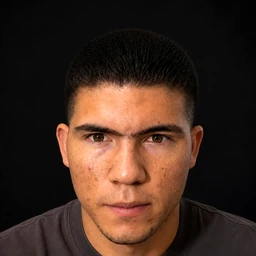
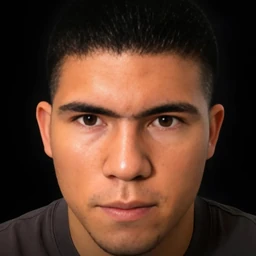
Nombrar problemas en el hero, apretar el ritmo y cambiar la foto
Los nodos pasan a nombrar lo que el visitante reconoce como problema
propio (tareas repetitivas, comentarios sin responder, web lenta, mal SEO
y GEO) en vez de herramientas, que encerraban el discurso en un tipo de
cliente. Y son cuatro, no tres.

Eso obligo a resolver algo: el texto de un SVG escala con su viewBox, asi
que en movil las etiquetas caian a unos 8px. Hay dos disposiciones, una
apaisada y otra apilada, generadas de la misma lista para que no se
desincronicen, y se alternan por ancho.

Ritmo vertical: cada seccion traia 72px de relleno arriba y abajo, o sea
144px de aire entre una y la siguiente, ocho veces. Con 48px la pagina
pasa de 7843 a 7411px sin que las secciones se toquen.

Y se cambia el retrato por la version de mas calidad, de la que ademas
sale el avatar redondo recortado sobre la cara.

Comprobado a 1280 y 430px: las cuatro etiquetas se leen, no hay solape
con los contadores ni desborde, y la consola sale limpia.

diff --git a/src/pagina-isak.tsx b/src/pagina-isak.tsx
@@ -87,6 +87,14 @@ const CERTIFICACIONES = [
   },
 ];
 
+/** Lo que el visitante reconoce como problema propio, no herramientas concretas. */
+const PROBLEMAS = [
+  "tareas repetitivas",
+  "comentarios sin responder",
+  "web lenta",
+  "mal SEO y GEO",
+];
+
 const ZOOM_MIN = 1;
 const ZOOM_MAX = 4;
 const acotar = (v) => Math.min(ZOOM_MAX, Math.max(ZOOM_MIN, v));
@@ -456,31 +464,58 @@ const PortadaIsak = () => {
                                     <div
                                         className="flujo"
                                         role="img"
-                                        aria-label="Varios sistemas conectados a un agente que devuelve la tarea resuelta"
+                                        aria-label="Tareas repetitivas, comentarios sin responder, web lenta y mal SEO entran a un agente que devuelve la tarea resuelta"
                                     >
-                                        <svg viewBox="0 0 708 293" fill="none" xmlns="http://www.w3.org/2000/svg">
-                                            {[62, 146, 230].map((y, i) => (
-                                                <g key={y} className="flujo__origen" style={{ animationDelay: `${i * 0.45}s` }}>
-                                                    <rect className="flujo__chip" x="14" y={y - 20} width="112" height="40" rx="20" />
-                                                    <circle className="flujo__punto" cx="46" cy={y} r="5" />
-                                                    <rect className="flujo__barra" x="62" y={y - 5} width="48" height="10" rx="5" />
-                                                    <path className="flujo__linea" d={`M126 ${y} C 200 ${y}, 248 146, 296 146`} />
-                                                </g>
-                                            ))}
-                                            <text className="flujo__pie" x="70" y="288" textAnchor="middle">tus sistemas</text>
-
-                                            <circle className="flujo__onda" cx="356" cy="146" r="56" />
-                                            <circle className="flujo__halo" cx="356" cy="146" r="56" />
-                                            <g className="flujo__marca" transform="translate(328,118) scale(1.4)">
+                                        {/* Apaisada. El texto del SVG escala con el viewBox, asi que en
+                                            movil quedaria a unos 8px: por eso hay una version aparte. */}
+                                        <svg className="flujo__ancho d-none d-md-block" viewBox="0 0 708 293" fill="none" xmlns="http://www.w3.org/2000/svg">
+                                            {PROBLEMAS.map((texto, i) => {
+                                                const y = 40 + i * 68;
+                                                return (
+                                                    <g key={texto} className="flujo__origen" style={{ animationDelay: `${i * 0.35}s` }}>
+                                                        <rect className="flujo__chip" x="6" y={y - 20} width="250" height="40" rx="20" />
+                                                        <circle className="flujo__punto" cx="32" cy={y} r="5" />
+                                                        <text className="flujo__etiqueta" x="50" y={y + 5}>{texto}</text>
+                                                        <path className="flujo__linea" d={`M256 ${y} C 320 ${y}, 330 142, 368 142`} />
+                                                    </g>
+                                                );
+                                            })}
+                                            <circle className="flujo__onda" cx="420" cy="142" r="52" />
+                                            <circle className="flujo__halo" cx="420" cy="142" r="52" />
+                                            <g className="flujo__marca" transform="translate(394,116) scale(1.3)">
                                                 <path className="flujo__marcaCuerpo" d="M27 2L40 32L33.5 32L27 17L10.6 40L0 40Z" />
                                                 <path className="flujo__marcaRanura" d="M13.1 21.56L20.18 26.59L18.68 28.71L11.6 23.68Z" />
                                                 <path className="flujo__marcaRanura" d="M7.31 29.71L14.39 34.74L12.89 36.86L5.81 31.83Z" />
                                             </g>
-                                            <text className="flujo__pie" x="356" y="288" textAnchor="middle">agente</text>
+                                            <text className="flujo__pie" x="420" y="222" textAnchor="middle">agente</text>
+                                            <path className="flujo__linea" d="M472 142 C 500 142, 510 142, 534 142" />
+                                            <rect className="flujo__salida" x="534" y="120" width="164" height="44" rx="22" />
+                                            <text className="flujo__salidaTexto" x="616" y="147" textAnchor="middle">resuelto</text>
+                                        </svg>
 
-                                            <path className="flujo__linea" d="M416 146 C 470 146, 500 146, 548 146" />
-                                            <rect className="flujo__salida" x="548" y="124" width="154" height="44" rx="22" />
-                                            <text className="flujo__salidaTexto" x="625" y="151" textAnchor="middle">tarea resuelta</text>
+                                        {/* Apilada, para pantallas estrechas. */}
+                                        <svg className="flujo__alto d-md-none" viewBox="0 0 360 430" fill="none" xmlns="http://www.w3.org/2000/svg">
+                                            {PROBLEMAS.map((texto, i) => {
+                                                const y = 26 + i * 52;
+                                                return (
+                                                    <g key={texto} className="flujo__origen" style={{ animationDelay: `${i * 0.35}s` }}>
+                                                        <rect className="flujo__chip" x="10" y={y - 18} width="340" height="36" rx="18" />
+                                                        <circle className="flujo__punto" cx="34" cy={y} r="5" />
+                                                        <text className="flujo__etiqueta" x="52" y={y + 5}>{texto}</text>
+                                                    </g>
+                                                );
+                                            })}
+                                            <path className="flujo__linea" d="M180 216 L180 270" />
+                                            <circle className="flujo__onda" cx="180" cy="318" r="44" />
+                                            <circle className="flujo__halo" cx="180" cy="318" r="44" />
+                                            <g className="flujo__marca" transform="translate(158,296) scale(1.1)">
+                                                <path className="flujo__marcaCuerpo" d="M27 2L40 32L33.5 32L27 17L10.6 40L0 40Z" />
+                                                <path className="flujo__marcaRanura" d="M13.1 21.56L20.18 26.59L18.68 28.71L11.6 23.68Z" />
+                                                <path className="flujo__marcaRanura" d="M7.31 29.71L14.39 34.74L12.89 36.86L5.81 31.83Z" />
+                                            </g>
+                                            <path className="flujo__linea" d="M180 362 L180 392" />
+                                            <rect className="flujo__salida" x="112" y="392" width="136" height="36" rx="18" />
+                                            <text className="flujo__salidaTexto" x="180" y="415" textAnchor="middle">resuelto</text>
                                         </svg>
                                     </div>
                                 </div>

diff --git a/public/assets/css/styles.css b/public/assets/css/styles.css
@@ -7695,6 +7695,19 @@ button.animate-btn::after,
   fill: var(--black-56);
   font-size: 15px;
 }
+.flujo__etiqueta {
+  fill: var(--black-72);
+  font-size: 15px;
+}
+/* La apilada usa un viewBox mas estrecho, asi que su texto necesita menos
+   tamano en unidades propias para acabar con el mismo tamano en pantalla. */
+.flujo__alto .flujo__etiqueta,
+.flujo__alto .flujo__salidaTexto {
+  font-size: 17px;
+}
+.flujo__alto .flujo__pie {
+  font-size: 16px;
+}
 .flujo__salidaTexto {
   fill: #071409;
   font-size: 15px;
@@ -7747,18 +7760,6 @@ button.animate-btn::after,
 .flujo__salida {
   fill: var(--primary);
 }
-@media (max-width: 767px) {
-  /* Al encoger el viewBox el texto se vuelve ilegible: se agranda en unidades
-     del propio SVG para compensar. */
-  .flujo__pie {
-    font-size: 24px;
-  }
-  /* Mas pequeno que el resto a proposito: a 24px el rotulo se salia de su
-     pildora, cuyo ancho esta fijado en el propio SVG. */
-  .flujo__salidaTexto {
-    font-size: 19px;
-  }
-}
 @media (prefers-reduced-motion: reduce) {
   .flujo__linea,
   .flujo__origen,
@@ -7804,5 +7805,26 @@ button.animate-btn::after,
 @media (prefers-reduced-motion: reduce) {
   .body-background::after {
     animation: none;
+  }
+}
+
+/*------------ Ritmo vertical ---------------- */
+/* La plantilla dejaba 72px arriba y abajo en cada seccion, o sea 144px de aire
+   entre una y la siguiente, ocho veces. Se aprieta el compas sin que las
+   secciones lleguen a tocarse. */
+.flat-spacing {
+  padding-top: 48px;
+  padding-bottom: 48px;
+}
+@media (max-width: 991px) {
+  .flat-spacing {
+    padding-top: 40px;
+    padding-bottom: 40px;
+  }
+}
+@media (max-width: 767px) {
+  .flat-spacing {
+    padding-top: 30px;
+    padding-bottom: 30px;
   }
 }
